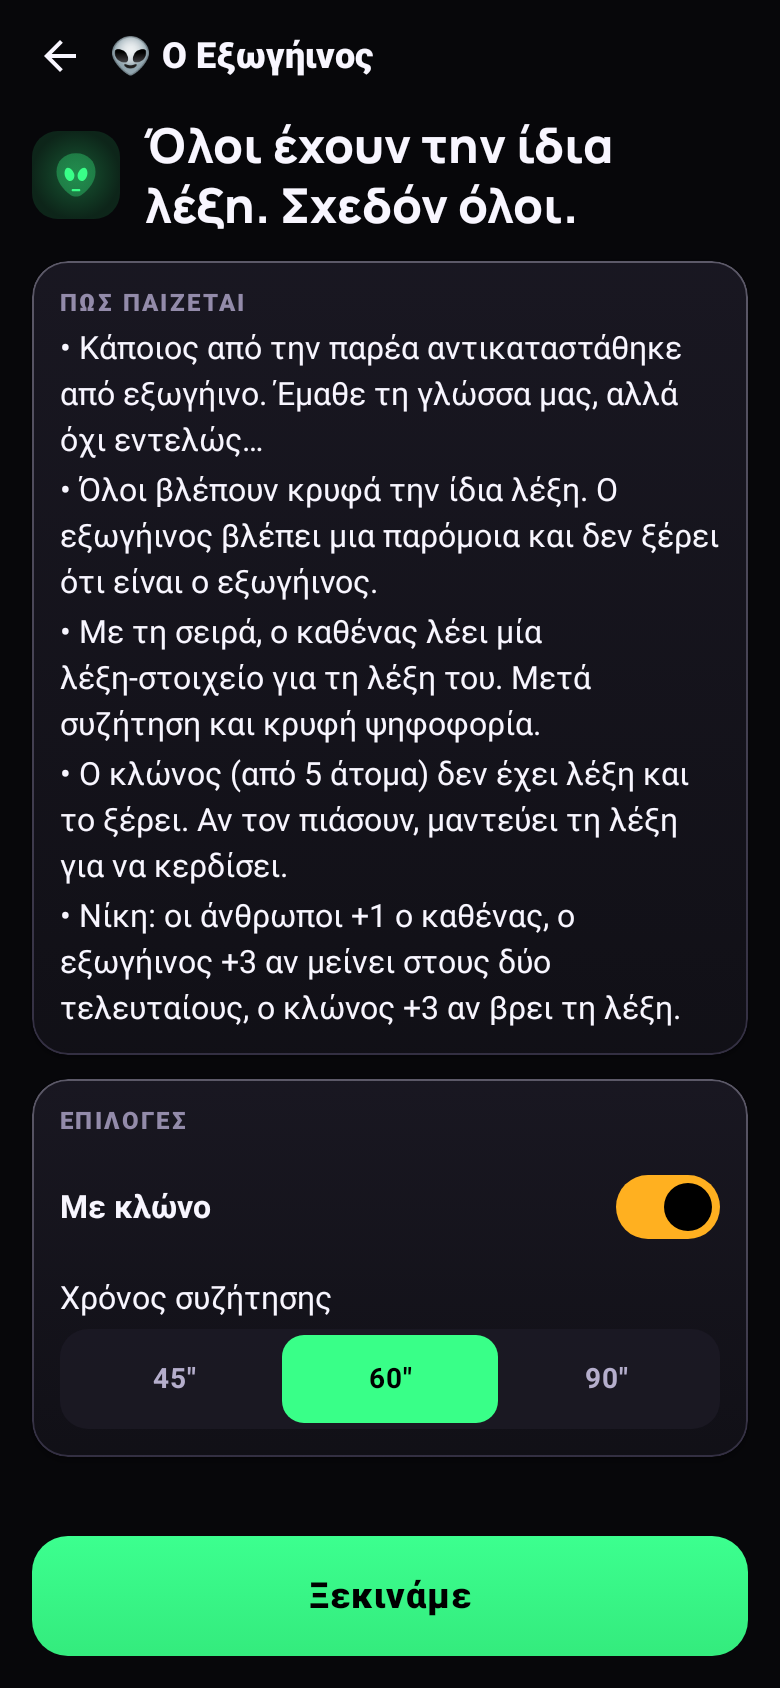
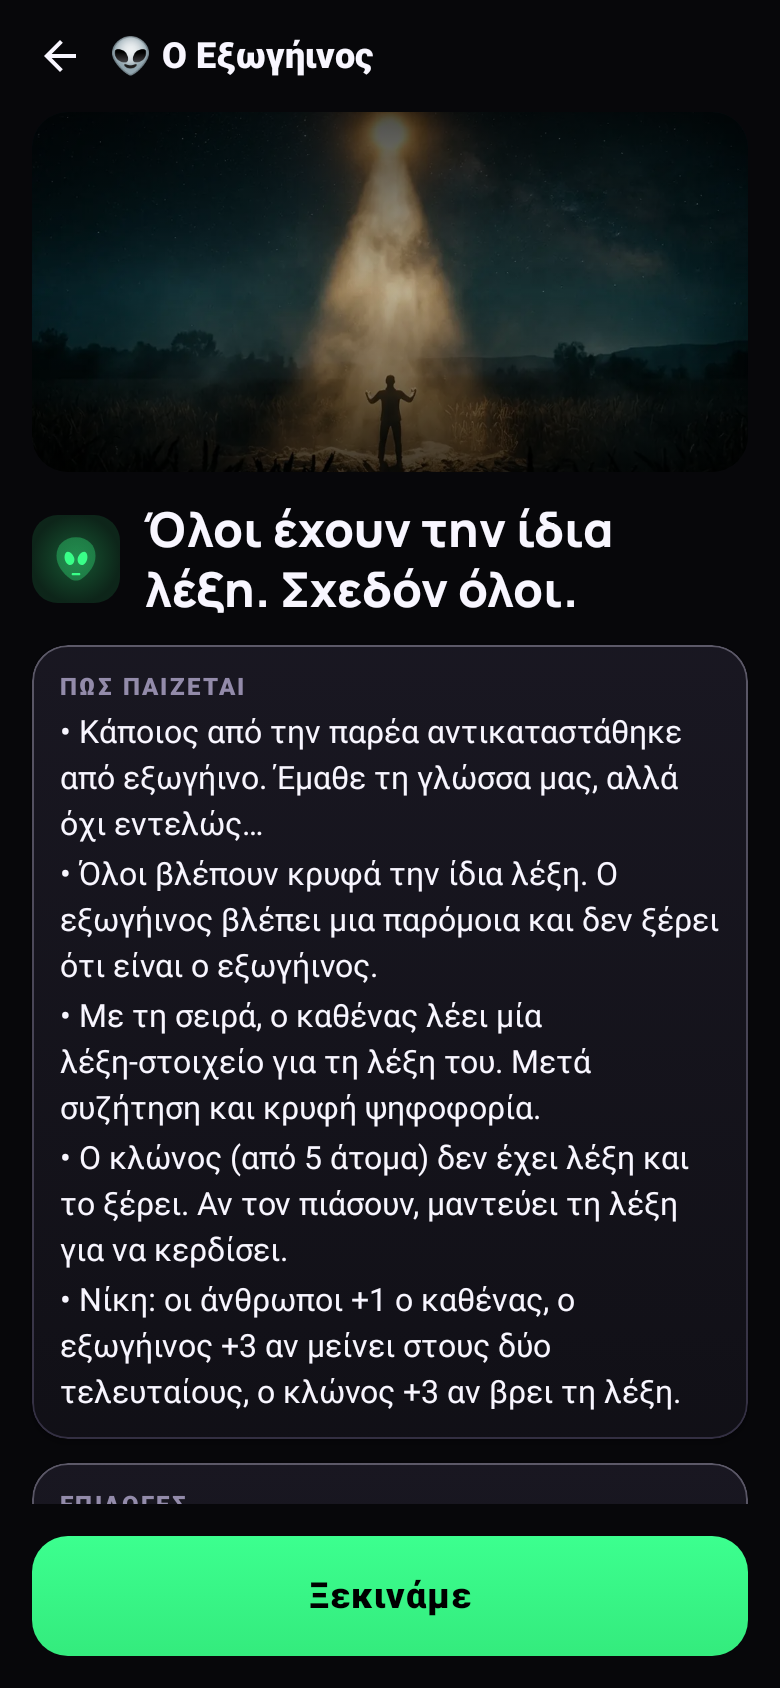
Cinema screenshots: decode the shot's images first, so 98-104 show the photos

diff --git a/app/src/test/java/gr/wsol/gamenight/ScreenshotsTest.kt b/app/src/test/java/gr/wsol/gamenight/ScreenshotsTest.kt
@@ -605,10 +605,13 @@ class ScreenshotsTest {
     // -----------------------------------------------------------------------
     // Cinema look screenshots (96 - 104)
     // -----------------------------------------------------------------------
-    private fun cinemaShot(name: String, vararg clicks: String, wait: Long = 1200, content: @Composable () -> Unit) {
+    private fun cinemaShot(name: String, vararg clicks: String, wait: Long = 1200, warm: List<String> = emptyList(), content: @Composable () -> Unit) {
         Store.settings = Store.settings.copy(look = 3)
         val ctx = androidx.test.core.app.ApplicationProvider.getApplicationContext<android.content.Context>()
         gr.wsol.gamenight.ui.HouseCinemaImages.preloadSync(ctx)
+        // The app decodes on Dispatchers.IO; Robolectric captures before that finishes, so the images of the shot
+        // are decoded here first (they are then served from the memory cache, as on a phone after the first view).
+        warm.forEach { org.junit.Assert.assertNotNull("missing cinema image $it", gr.wsol.gamenight.ui.loadCinemaBitmap(ctx, it)) }
         shot(name, *clicks, wait = wait, content = content)
     }
 
@@ -643,21 +646,21 @@ class ScreenshotsTest {
         }
     }
 
-    @Test fun s96_cinema_home() = cinemaShot("96-cinema-home") { HomeScreen() }
+    @Test fun s96_cinema_home() = cinemaShot("96-cinema-home", warm = listOf("bg/home.webp", "cat/roles.webp")) { HomeScreen() }
 
-    @Test fun s97_cinema_category() = cinemaShot("97-cinema-category") {
+    @Test fun s97_cinema_category() = cinemaShot("97-cinema-category", warm = listOf("bg/home.webp", "cat/roles.webp", "cat/words.webp")) {
         HomeScreen()
     }
 
-    @Test fun s98_cinema_intro_alien() = cinemaShot("98-cinema-intro-alien") {
+    @Test fun s98_cinema_intro_alien() = cinemaShot("98-cinema-intro-alien", warm = listOf("intro/alien.webp")) {
         game("alien")(host)
     }
 
-    @Test fun s99_cinema_pass() = cinemaShot("99-cinema-pass") {
+    @Test fun s99_cinema_pass() = cinemaShot("99-cinema-pass", warm = listOf("bg/pass.webp")) {
         PassTo(names[0], androidx.compose.ui.graphics.Color(Palette.players[0])) {}
     }
 
-    @Test fun s100_cinema_house_night() = cinemaShot("100-cinema-house-night") {
+    @Test fun s100_cinema_house_night() = cinemaShot("100-cinema-house-night", warm = listOf("house/night.webp", "house/day.webp")) {
         gr.wsol.gamenight.games.HouseBackground(isNight = true) {
             androidx.compose.foundation.layout.Box(
                 modifier = androidx.compose.ui.Modifier.fillMaxSize(),
@@ -695,7 +698,7 @@ class ScreenshotsTest {
         }
     }
 
-    @Test fun s103_cinema_chaos() = cinemaShot("103-cinema-chaos") {
+    @Test fun s103_cinema_chaos() = cinemaShot("103-cinema-chaos", warm = listOf("chaos/gift.webp")) {
         gr.wsol.gamenight.chaos.ChaosOverlay(
             event = gr.wsol.gamenight.chaos.Chaos.Event(
                 gr.wsol.gamenight.chaos.Chaos.Kind.Gift,
@@ -708,7 +711,7 @@ class ScreenshotsTest {
         ) {}
     }
 
-    @Test fun s104_cinema_score() = cinemaShot("104-cinema-score") {
+    @Test fun s104_cinema_score() = cinemaShot("104-cinema-score", warm = listOf("bg/stage.webp")) {
         ScoreScreen()
     }
 }
